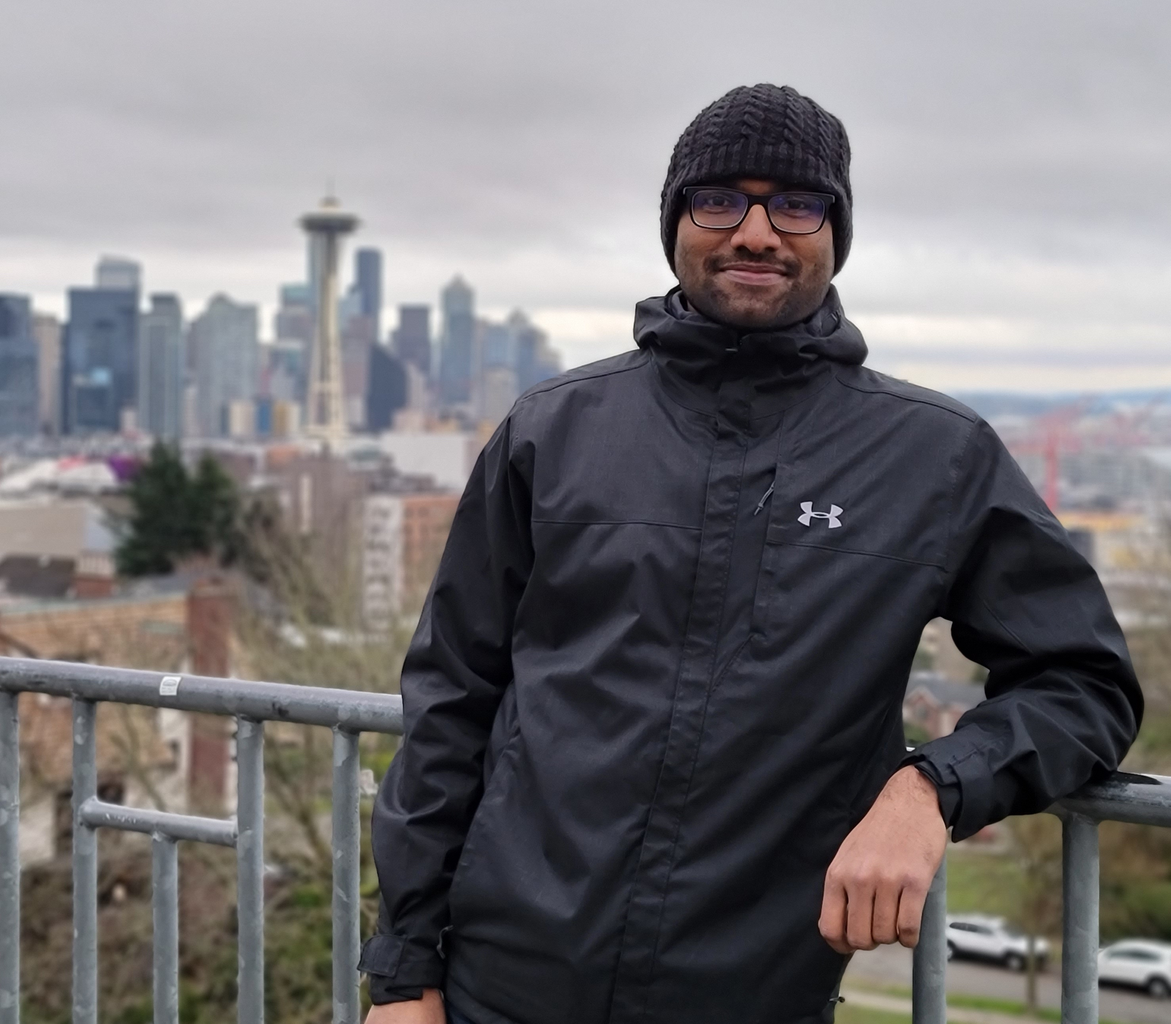
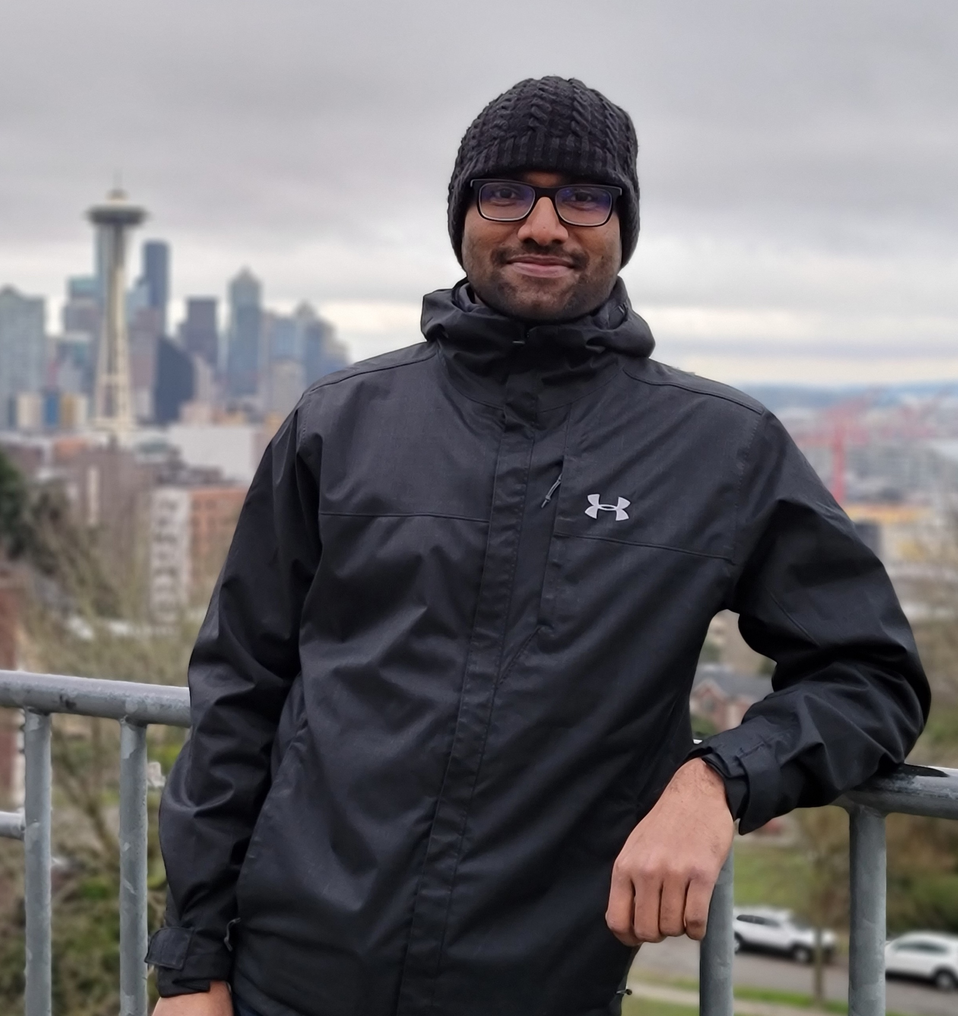
update

diff --git a/index.html b/index.html
@@ -46,7 +46,7 @@
               </p>
             </td>
             <td style="padding:2.5%;width:35%;max-width:40%">
-              <a href="images/potrait2.JPEG"><img style="width:100%;max-width:100%" alt="profile photo" src="images/potrait2.JPEG" class="hoverZoomLink"></a>
+              <a href="images/potrait2.JPEG"><img style="width:90%;max-width:100%" alt="profile photo" src="images/potrait2.JPEG" class="hoverZoomLink"></a>
             </td>
           </tr>
         </tbody></table>
